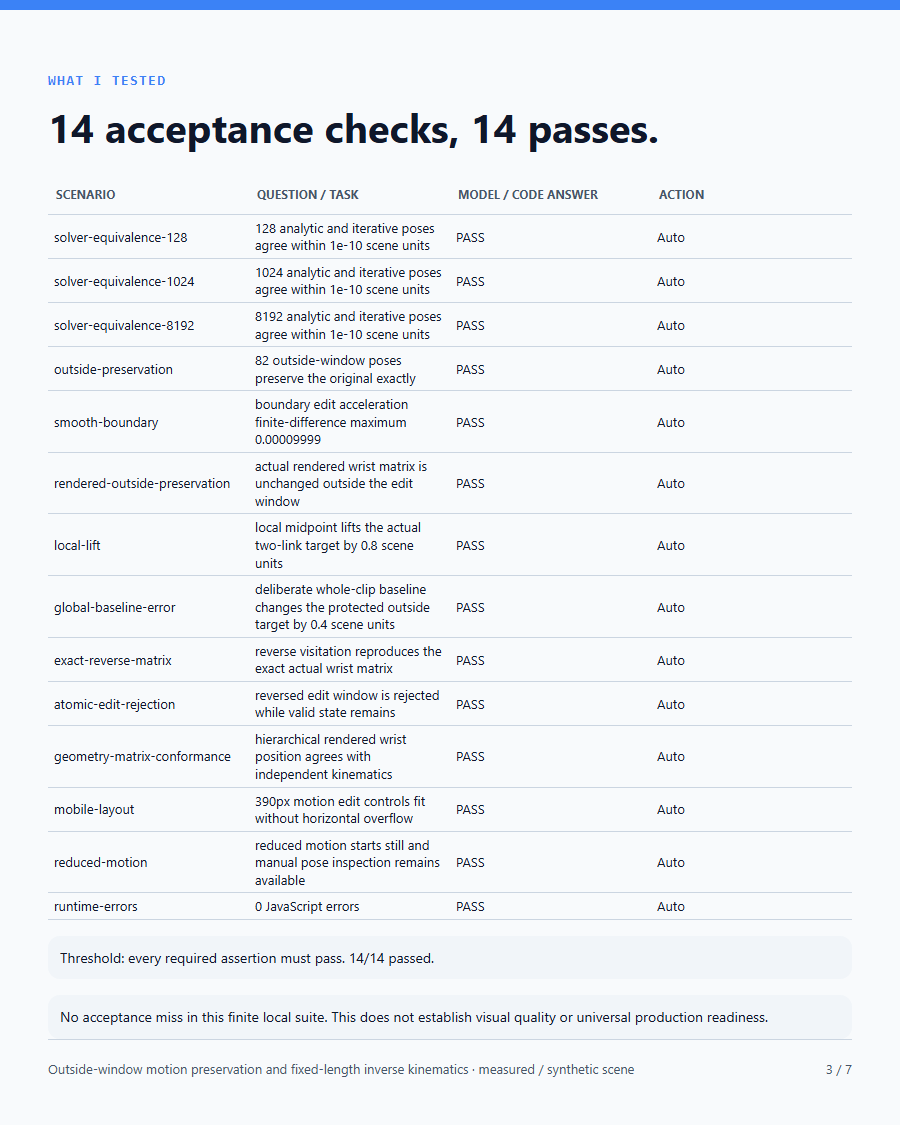
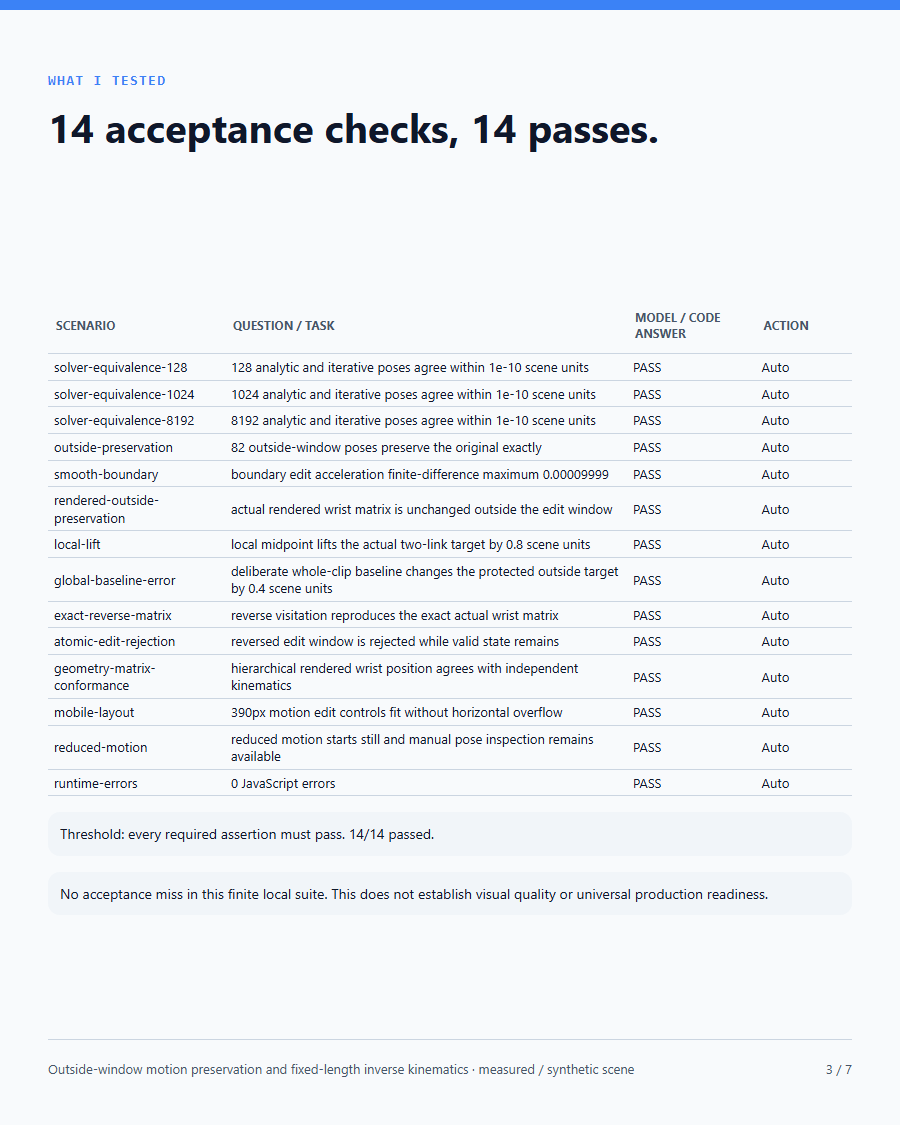
fix: publish cross-platform font-safe fourteen-row portrait matrices

diff --git a/animation/demos/masked-motion-arm/test-report-cards.html b/animation/demos/masked-motion-arm/test-report-cards.html
@@ -1,7 +1,7 @@
 <!doctype html><html lang="en"><head><meta charset="utf-8"><meta name="viewport" content="width=device-width,initial-scale=1"><meta http-equiv="Content-Security-Policy" content="default-src 'none'; style-src 'unsafe-inline'"><title>Outside-window motion preservation and fixed-length inverse kinematics · 7-card measured report</title><style>
 :root{--page:#f8fafc;--ink:#0f172a;--muted:#475569;--line:#cbd5e1;--primary:#3b82f6;--base:#cbd5e1;--code:#0f172a;--code-ink:#e2e8f0;--good:#ecfdf5;--bad:#fff1f2;--callout:#f1f5f9}*{box-sizing:border-box}body{margin:0;background:var(--line);color:var(--ink);font-family:"Segoe UI",Aptos,Calibri,sans-serif}main{display:grid;justify-content:center;gap:32px;padding:32px}.report-card{width:900px;height:1125px;background:var(--page);padding:48px;display:flex;flex-direction:column;border-top:10px solid var(--primary);overflow:hidden}.eyebrow{font:700 14px Consolas,monospace;color:var(--primary);letter-spacing:.1em}h2{font-size:40px;line-height:1.12;margin:16px 0 24px}h3{font-size:18px}p,li{line-height:1.5}section{flex:1;display:flex;flex-direction:column;justify-content:center;gap:16px;font-size:17px}.workbench{display:grid;grid-template-columns:1fr 1fr 1fr;gap:16px}.workbench>div,.decision{padding:18px;border:1px solid var(--line);border-radius:12px}.workbench p{font-size:14px}.callout,blockquote{background:var(--callout);padding:18px;border-radius:12px;line-height:1.5;margin:0}pre{background:var(--code);color:var(--code-ink);padding:20px;font:15px/1.5 Consolas,monospace;white-space:pre-wrap;overflow-wrap:anywhere;border-radius:12px}.workbench pre{font-size:13px}table{border-collapse:collapse;width:100%;font-size:15px;table-layout:fixed}th,td{border-bottom:1px solid var(--line);padding:12px 8px;text-align:left;overflow-wrap:anywhere}th{font-size:12px;color:var(--muted)}.pill{background:var(--callout);padding:4px 8px;border-radius:8px}.track{height:16px;flex:1;min-width:0;background:var(--callout)}.bar{height:100%;background:var(--primary)}.bar.baseline{background:var(--base)}.bar-row{display:flex;align-items:center;gap:12px;margin:16px 0}.bar-row>span{width:150px}.bar-row>strong{width:110px;font-size:16px}.latency{padding:8px 0}.fit{display:grid;grid-template-columns:1fr 1fr;gap:20px}.fit>div{padding:24px;border-radius:12px}.good{background:var(--good)}.bad{background:var(--bad)}footer{border-top:1px solid var(--line);padding-top:20px;display:flex;justify-content:space-between;font-size:13px;color:var(--muted)}.transition{color:var(--primary);font-weight:bold}@media(max-width:940px){main{padding:0;gap:16px;justify-content:start}.report-card{transform-origin:top left;width:100vw;height:auto;min-height:125vw;padding:24px}h2{font-size:clamp(24px,4.5vw,40px)}section{font-size:15px}.workbench{grid-template-columns:1fr}.workbench>div{padding:10px}.fit{gap:10px}.fit>div{padding:12px}table{font-size:12px}th,td{padding:8px 4px}.bar-row>span{width:100px;font-size:12px}.bar-row>strong{width:80px;font-size:12px}pre{font-size:12px}}@media print{main{padding:0;gap:0}.report-card{break-after:page}}
 .decision p{font-size:15px;margin:8px 0}.decision h3{margin:8px 0}.decision{padding:14px}.decision .track{margin-top:10px}#card-3 td{padding:6px;font-size:13px;line-height:1.35}#card-3 .callout{padding:12px;font-size:14px;line-height:1.4}.headline-accent{background:linear-gradient(90deg,var(--primary),var(--ink));background-clip:text;color:transparent}
-#card-3 td{padding:4px 6px}
+#card-3 td{padding:4px 6px}#card-3 th:nth-child(1){width:22%}#card-3 th:nth-child(2){width:50%}#card-3 th:nth-child(3){width:16%}#card-3 th:nth-child(4){width:12%}
 </style></head><body><main><article class="report-card" id="card-1"><header><p class="eyebrow">HANDS-ON · BROWSER ANIMATION</p><h2>14/14 checks pass. <span class="headline-accent">Control stays inspectable.</span></h2></header><section><div class="workbench"><div><h3>Scenarios & gating</h3><p>solver-equivalence-128</p><p>solver-equivalence-1024</p><p>solver-equivalence-8192</p><p>outside-preservation</p><p>smooth-boundary</p><p>rendered-outside-preservation</p><small>Pass → Auto; fail → human. Not a calibrated probability.</small></div><div><h3>Structured input</h3><pre>{
   &quot;time&quot;: 5,
   &quot;edit_start&quot;: 3,

diff --git a/generative-visual-lab/demos/masked-motion-arm/test-report-cards.html b/generative-visual-lab/demos/masked-motion-arm/test-report-cards.html
@@ -1,7 +1,7 @@
 <!doctype html><html lang="en"><head><meta charset="utf-8"><meta name="viewport" content="width=device-width,initial-scale=1"><meta http-equiv="Content-Security-Policy" content="default-src 'none'; style-src 'unsafe-inline'"><title>Outside-window motion preservation and fixed-length inverse kinematics · 7-card measured report</title><style>
 :root{--page:#f8fafc;--ink:#0f172a;--muted:#475569;--line:#cbd5e1;--primary:#3b82f6;--base:#cbd5e1;--code:#0f172a;--code-ink:#e2e8f0;--good:#ecfdf5;--bad:#fff1f2;--callout:#f1f5f9}*{box-sizing:border-box}body{margin:0;background:var(--line);color:var(--ink);font-family:"Segoe UI",Aptos,Calibri,sans-serif}main{display:grid;justify-content:center;gap:32px;padding:32px}.report-card{width:900px;height:1125px;background:var(--page);padding:48px;display:flex;flex-direction:column;border-top:10px solid var(--primary);overflow:hidden}.eyebrow{font:700 14px Consolas,monospace;color:var(--primary);letter-spacing:.1em}h2{font-size:40px;line-height:1.12;margin:16px 0 24px}h3{font-size:18px}p,li{line-height:1.5}section{flex:1;display:flex;flex-direction:column;justify-content:center;gap:16px;font-size:17px}.workbench{display:grid;grid-template-columns:1fr 1fr 1fr;gap:16px}.workbench>div,.decision{padding:18px;border:1px solid var(--line);border-radius:12px}.workbench p{font-size:14px}.callout,blockquote{background:var(--callout);padding:18px;border-radius:12px;line-height:1.5;margin:0}pre{background:var(--code);color:var(--code-ink);padding:20px;font:15px/1.5 Consolas,monospace;white-space:pre-wrap;overflow-wrap:anywhere;border-radius:12px}.workbench pre{font-size:13px}table{border-collapse:collapse;width:100%;font-size:15px;table-layout:fixed}th,td{border-bottom:1px solid var(--line);padding:12px 8px;text-align:left;overflow-wrap:anywhere}th{font-size:12px;color:var(--muted)}.pill{background:var(--callout);padding:4px 8px;border-radius:8px}.track{height:16px;flex:1;min-width:0;background:var(--callout)}.bar{height:100%;background:var(--primary)}.bar.baseline{background:var(--base)}.bar-row{display:flex;align-items:center;gap:12px;margin:16px 0}.bar-row>span{width:150px}.bar-row>strong{width:110px;font-size:16px}.latency{padding:8px 0}.fit{display:grid;grid-template-columns:1fr 1fr;gap:20px}.fit>div{padding:24px;border-radius:12px}.good{background:var(--good)}.bad{background:var(--bad)}footer{border-top:1px solid var(--line);padding-top:20px;display:flex;justify-content:space-between;font-size:13px;color:var(--muted)}.transition{color:var(--primary);font-weight:bold}@media(max-width:940px){main{padding:0;gap:16px;justify-content:start}.report-card{transform-origin:top left;width:100vw;height:auto;min-height:125vw;padding:24px}h2{font-size:clamp(24px,4.5vw,40px)}section{font-size:15px}.workbench{grid-template-columns:1fr}.workbench>div{padding:10px}.fit{gap:10px}.fit>div{padding:12px}table{font-size:12px}th,td{padding:8px 4px}.bar-row>span{width:100px;font-size:12px}.bar-row>strong{width:80px;font-size:12px}pre{font-size:12px}}@media print{main{padding:0;gap:0}.report-card{break-after:page}}
 .decision p{font-size:15px;margin:8px 0}.decision h3{margin:8px 0}.decision{padding:14px}.decision .track{margin-top:10px}#card-3 td{padding:6px;font-size:13px;line-height:1.35}#card-3 .callout{padding:12px;font-size:14px;line-height:1.4}.headline-accent{background:linear-gradient(90deg,var(--primary),var(--ink));background-clip:text;color:transparent}
-#card-3 td{padding:4px 6px}
+#card-3 td{padding:4px 6px}#card-3 th:nth-child(1){width:22%}#card-3 th:nth-child(2){width:50%}#card-3 th:nth-child(3){width:16%}#card-3 th:nth-child(4){width:12%}
 </style></head><body><main><article class="report-card" id="card-1"><header><p class="eyebrow">HANDS-ON · BROWSER ANIMATION</p><h2>14/14 checks pass. <span class="headline-accent">Control stays inspectable.</span></h2></header><section><div class="workbench"><div><h3>Scenarios & gating</h3><p>solver-equivalence-128</p><p>solver-equivalence-1024</p><p>solver-equivalence-8192</p><p>outside-preservation</p><p>smooth-boundary</p><p>rendered-outside-preservation</p><small>Pass → Auto; fail → human. Not a calibrated probability.</small></div><div><h3>Structured input</h3><pre>{
   &quot;time&quot;: 5,
   &quot;edit_start&quot;: 3,

diff --git a/animation/demos/masked-motion-arm/test-report-cards.zh.html b/animation/demos/masked-motion-arm/test-report-cards.zh.html
@@ -2,7 +2,7 @@
 <html lang="zh-CN"><head><meta charset="utf-8"><meta name="viewport" content="width=device-width,initial-scale=1"><meta http-equiv="Content-Security-Policy" content="default-src 'none'; style-src 'unsafe-inline'"><title>窗外动作保留与固定骨长逆运动学 · 7-card measured report</title><style>
 :root{--page:#f8fafc;--ink:#0f172a;--muted:#475569;--line:#cbd5e1;--primary:#3b82f6;--base:#cbd5e1;--code:#0f172a;--code-ink:#e2e8f0;--good:#ecfdf5;--bad:#fff1f2;--callout:#f1f5f9}*{box-sizing:border-box}body{margin:0;background:var(--line);color:var(--ink);font-family:"Segoe UI",Aptos,Calibri,sans-serif}main{display:grid;justify-content:center;gap:32px;padding:32px}.report-card{width:900px;height:1125px;background:var(--page);padding:48px;display:flex;flex-direction:column;border-top:10px solid var(--primary);overflow:hidden}.eyebrow{font:700 14px Consolas,monospace;color:var(--primary);letter-spacing:.1em}h2{font-size:40px;line-height:1.12;margin:16px 0 24px}h3{font-size:18px}p,li{line-height:1.5}section{flex:1;display:flex;flex-direction:column;justify-content:center;gap:16px;font-size:17px}.workbench{display:grid;grid-template-columns:1fr 1fr 1fr;gap:16px}.workbench>div,.decision{padding:18px;border:1px solid var(--line);border-radius:12px}.workbench p{font-size:14px}.callout,blockquote{background:var(--callout);padding:18px;border-radius:12px;line-height:1.5;margin:0}pre{background:var(--code);color:var(--code-ink);padding:20px;font:15px/1.5 Consolas,monospace;white-space:pre-wrap;overflow-wrap:anywhere;border-radius:12px}.workbench pre{font-size:13px}table{border-collapse:collapse;width:100%;font-size:15px;table-layout:fixed}th,td{border-bottom:1px solid var(--line);padding:12px 8px;text-align:left;overflow-wrap:anywhere}th{font-size:12px;color:var(--muted)}.pill{background:var(--callout);padding:4px 8px;border-radius:8px}.track{height:16px;flex:1;min-width:0;background:var(--callout)}.bar{height:100%;background:var(--primary)}.bar.baseline{background:var(--base)}.bar-row{display:flex;align-items:center;gap:12px;margin:16px 0}.bar-row>span{width:150px}.bar-row>strong{width:110px;font-size:16px}.latency{padding:8px 0}.fit{display:grid;grid-template-columns:1fr 1fr;gap:20px}.fit>div{padding:24px;border-radius:12px}.good{background:var(--good)}.bad{background:var(--bad)}footer{border-top:1px solid var(--line);padding-top:20px;display:flex;justify-content:space-between;font-size:13px;color:var(--muted)}.transition{color:var(--primary);font-weight:bold}@media(max-width:940px){main{padding:0;gap:16px;justify-content:start}.report-card{transform-origin:top left;width:100vw;height:auto;min-height:125vw;padding:24px}h2{font-size:clamp(24px,4.5vw,40px)}section{font-size:15px}.workbench{grid-template-columns:1fr}.workbench>div{padding:10px}.fit{gap:10px}.fit>div{padding:12px}table{font-size:12px}th,td{padding:8px 4px}.bar-row>span{width:100px;font-size:12px}.bar-row>strong{width:80px;font-size:12px}pre{font-size:12px}}@media print{main{padding:0;gap:0}.report-card{break-after:page}}
 .decision p{font-size:15px;margin:8px 0}.decision h3{margin:8px 0}.decision{padding:14px}.decision .track{margin-top:10px}#card-3 td{padding:6px;font-size:13px;line-height:1.35}#card-3 .callout{padding:12px;font-size:14px;line-height:1.4}.headline-accent{background:linear-gradient(90deg,var(--primary),var(--ink));background-clip:text;color:transparent}
-#card-3 td{padding:4px 6px}
+#card-3 td{padding:4px 6px}#card-3 th:nth-child(1){width:22%}#card-3 th:nth-child(2){width:50%}#card-3 th:nth-child(3){width:16%}#card-3 th:nth-child(4){width:12%}
 </style></head><body><main><article class="report-card" id="card-1"><header><p class="eyebrow">HANDS-ON · 浏览器动画</p><h2>14/14 项检查通过。 <span class="headline-accent">控制过程始终可检查。</span></h2></header><section><div class="workbench"><div><h3>检查场景与门禁</h3><p>求解等价 128</p><p>求解等价 1024</p><p>求解等价 8192</p><p>窗外保留</p><p>平滑边界</p><p>渲染窗外保留</p><small>通过→自动放行；失败→人工复核。不是校准概率。</small></div><div><h3>结构化输入</h3><pre>{
   "time": 5,
   "edit_start": 3,

diff --git a/generative-visual-lab/demos/masked-motion-arm/test-report-cards.zh.html b/generative-visual-lab/demos/masked-motion-arm/test-report-cards.zh.html
@@ -2,7 +2,7 @@
 <html lang="zh-CN"><head><meta charset="utf-8"><meta name="viewport" content="width=device-width,initial-scale=1"><meta http-equiv="Content-Security-Policy" content="default-src 'none'; style-src 'unsafe-inline'"><title>窗外动作保留与固定骨长逆运动学 · 7-card measured report</title><style>
 :root{--page:#f8fafc;--ink:#0f172a;--muted:#475569;--line:#cbd5e1;--primary:#3b82f6;--base:#cbd5e1;--code:#0f172a;--code-ink:#e2e8f0;--good:#ecfdf5;--bad:#fff1f2;--callout:#f1f5f9}*{box-sizing:border-box}body{margin:0;background:var(--line);color:var(--ink);font-family:"Segoe UI",Aptos,Calibri,sans-serif}main{display:grid;justify-content:center;gap:32px;padding:32px}.report-card{width:900px;height:1125px;background:var(--page);padding:48px;display:flex;flex-direction:column;border-top:10px solid var(--primary);overflow:hidden}.eyebrow{font:700 14px Consolas,monospace;color:var(--primary);letter-spacing:.1em}h2{font-size:40px;line-height:1.12;margin:16px 0 24px}h3{font-size:18px}p,li{line-height:1.5}section{flex:1;display:flex;flex-direction:column;justify-content:center;gap:16px;font-size:17px}.workbench{display:grid;grid-template-columns:1fr 1fr 1fr;gap:16px}.workbench>div,.decision{padding:18px;border:1px solid var(--line);border-radius:12px}.workbench p{font-size:14px}.callout,blockquote{background:var(--callout);padding:18px;border-radius:12px;line-height:1.5;margin:0}pre{background:var(--code);color:var(--code-ink);padding:20px;font:15px/1.5 Consolas,monospace;white-space:pre-wrap;overflow-wrap:anywhere;border-radius:12px}.workbench pre{font-size:13px}table{border-collapse:collapse;width:100%;font-size:15px;table-layout:fixed}th,td{border-bottom:1px solid var(--line);padding:12px 8px;text-align:left;overflow-wrap:anywhere}th{font-size:12px;color:var(--muted)}.pill{background:var(--callout);padding:4px 8px;border-radius:8px}.track{height:16px;flex:1;min-width:0;background:var(--callout)}.bar{height:100%;background:var(--primary)}.bar.baseline{background:var(--base)}.bar-row{display:flex;align-items:center;gap:12px;margin:16px 0}.bar-row>span{width:150px}.bar-row>strong{width:110px;font-size:16px}.latency{padding:8px 0}.fit{display:grid;grid-template-columns:1fr 1fr;gap:20px}.fit>div{padding:24px;border-radius:12px}.good{background:var(--good)}.bad{background:var(--bad)}footer{border-top:1px solid var(--line);padding-top:20px;display:flex;justify-content:space-between;font-size:13px;color:var(--muted)}.transition{color:var(--primary);font-weight:bold}@media(max-width:940px){main{padding:0;gap:16px;justify-content:start}.report-card{transform-origin:top left;width:100vw;height:auto;min-height:125vw;padding:24px}h2{font-size:clamp(24px,4.5vw,40px)}section{font-size:15px}.workbench{grid-template-columns:1fr}.workbench>div{padding:10px}.fit{gap:10px}.fit>div{padding:12px}table{font-size:12px}th,td{padding:8px 4px}.bar-row>span{width:100px;font-size:12px}.bar-row>strong{width:80px;font-size:12px}pre{font-size:12px}}@media print{main{padding:0;gap:0}.report-card{break-after:page}}
 .decision p{font-size:15px;margin:8px 0}.decision h3{margin:8px 0}.decision{padding:14px}.decision .track{margin-top:10px}#card-3 td{padding:6px;font-size:13px;line-height:1.35}#card-3 .callout{padding:12px;font-size:14px;line-height:1.4}.headline-accent{background:linear-gradient(90deg,var(--primary),var(--ink));background-clip:text;color:transparent}
-#card-3 td{padding:4px 6px}
+#card-3 td{padding:4px 6px}#card-3 th:nth-child(1){width:22%}#card-3 th:nth-child(2){width:50%}#card-3 th:nth-child(3){width:16%}#card-3 th:nth-child(4){width:12%}
 </style></head><body><main><article class="report-card" id="card-1"><header><p class="eyebrow">HANDS-ON · 浏览器动画</p><h2>14/14 项检查通过。 <span class="headline-accent">控制过程始终可检查。</span></h2></header><section><div class="workbench"><div><h3>检查场景与门禁</h3><p>求解等价 128</p><p>求解等价 1024</p><p>求解等价 8192</p><p>窗外保留</p><p>平滑边界</p><p>渲染窗外保留</p><small>通过→自动放行；失败→人工复核。不是校准概率。</small></div><div><h3>结构化输入</h3><pre>{
   "time": 5,
   "edit_start": 3,
